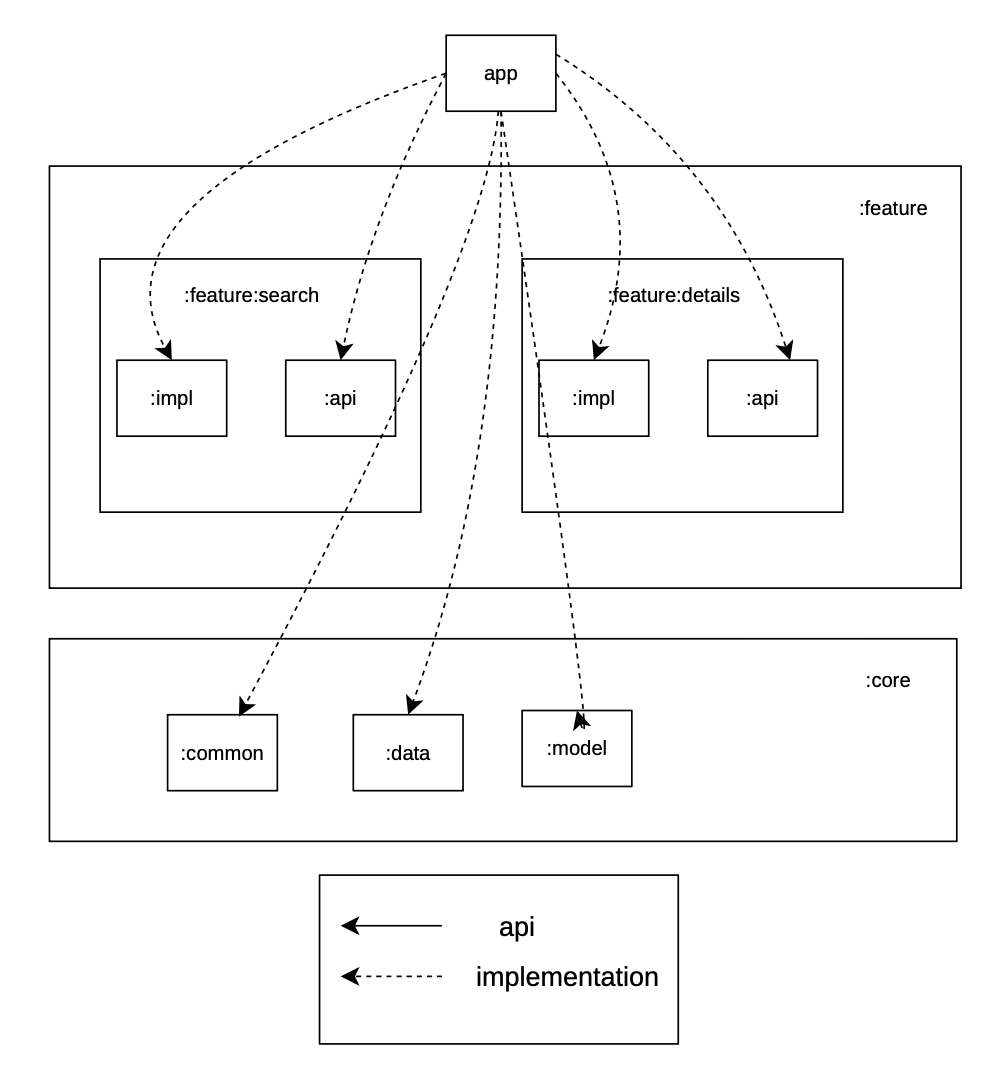
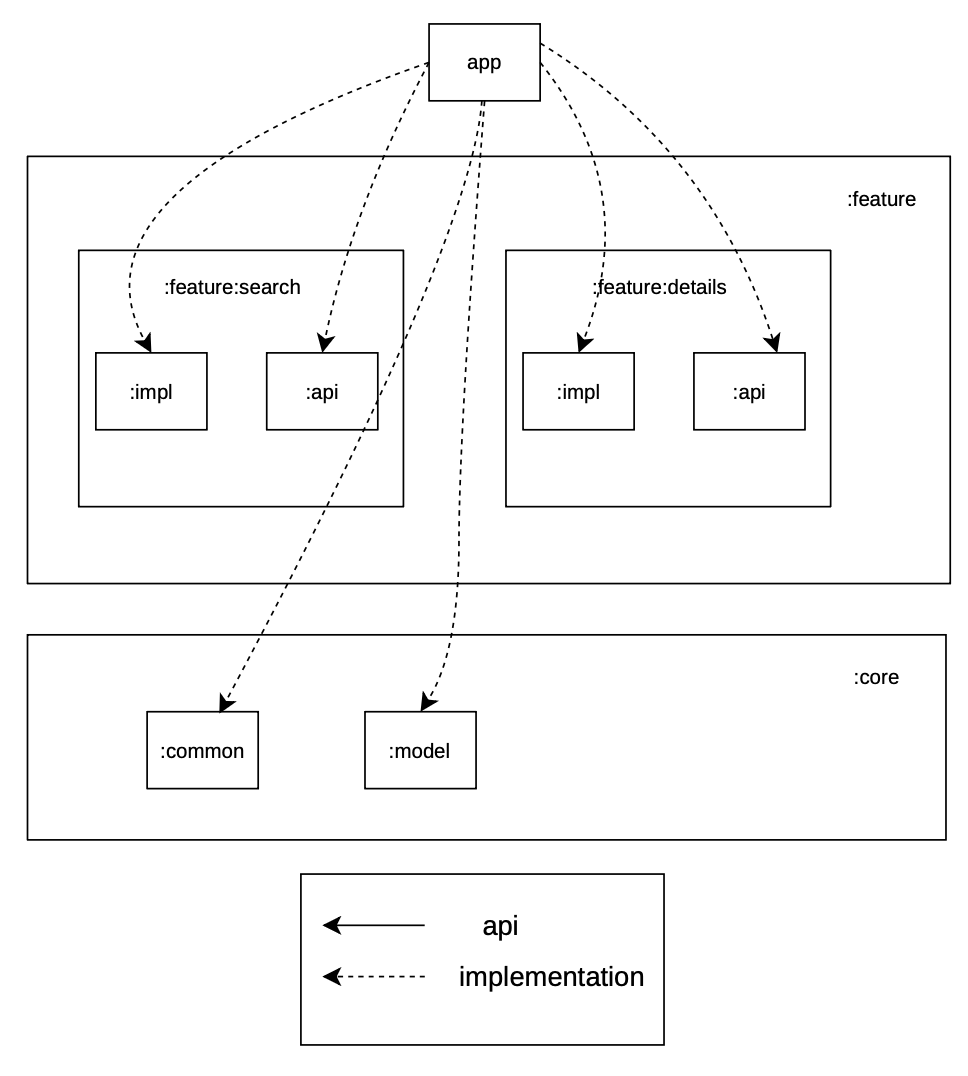
docs: fix image links in src - main module .md - app .md; refactor: NetworkState: move interface to :common, keep implementation internal in :data/util.

diff --git a/core/data/src/main/java/com/android/testapp/core/data/util/ConnectivityManagerNetworkState.kt b/core/data/src/main/java/com/android/testapp/core/data/util/ConnectivityManagerNetworkState.kt
@@ -9,6 +9,7 @@ import android.net.NetworkRequest.Builder
 import androidx.core.content.getSystemService
 import com.android.testapp.core.common.network.AppDispatchers.IO
 import com.android.testapp.core.common.network.Dispatcher
+import com.android.testapp.core.common.network.NetworkState
 import dagger.hilt.android.qualifiers.ApplicationContext
 import kotlinx.coroutines.CoroutineDispatcher
 import kotlinx.coroutines.channels.awaitClose
@@ -18,7 +19,7 @@ import kotlinx.coroutines.flow.conflate
 import kotlinx.coroutines.flow.flowOn
 import javax.inject.Inject
 
-class ConnectivityManagerNetworkState @Inject constructor(
+internal class ConnectivityManagerNetworkState @Inject constructor(
     @ApplicationContext private val context: Context,
     @Dispatcher(IO) private val ioDispatcher: CoroutineDispatcher,
 ) : NetworkState {

diff --git a/app/src/main/java/com/android/testapp/GifAppState.kt b/app/src/main/java/com/android/testapp/GifAppState.kt
@@ -3,7 +3,7 @@ package com.android.testapp
 import androidx.compose.runtime.Composable
 import androidx.compose.runtime.remember
 import androidx.compose.runtime.rememberCoroutineScope
-import com.android.testapp.core.data.util.NetworkState
+import com.android.testapp.core.common.network.NetworkState
 import com.android.testapp.core.navigation.NavigationState
 import com.android.testapp.core.navigation.rememberNavigationState
 import com.android.testapp.feature.search.api.navigation.SearchNavKey

diff --git a/core/data/src/main/java/com/android/testapp/core/data/di/DataModule.kt b/core/data/src/main/java/com/android/testapp/core/data/di/DataModule.kt
@@ -1,9 +1,9 @@
 package com.android.testapp.core.data.di
 
+import com.android.testapp.core.common.network.NetworkState
 import com.android.testapp.core.data.repository.GifRepository
 import com.android.testapp.core.data.repository.GifRepositoryImpl
 import com.android.testapp.core.data.util.ConnectivityManagerNetworkState
-import com.android.testapp.core.data.util.NetworkState
 import dagger.Binds
 import dagger.Module
 import dagger.hilt.InstallIn

diff --git a/app/src/main/java/com/android/testapp/MainActivity.kt b/app/src/main/java/com/android/testapp/MainActivity.kt
@@ -4,7 +4,7 @@ import android.os.Bundle
 import androidx.activity.ComponentActivity
 import androidx.activity.compose.setContent
 import androidx.activity.enableEdgeToEdge
-import com.android.testapp.core.data.util.NetworkState
+import com.android.testapp.core.common.network.NetworkState
 import com.android.testapp.ui.theme.TestappTheme
 import dagger.hilt.android.AndroidEntryPoint
 import javax.inject.Inject

diff --git a/core/common/src/main/java/com/android/testapp/core/common/network/NetworkState.kt b/core/common/src/main/java/com/android/testapp/core/common/network/NetworkState.kt
@@ -1,4 +1,4 @@
-package com.android.testapp.core.data.util
+package com.android.testapp.core.common.network
 
 import kotlinx.coroutines.flow.Flow
 

diff --git a/README.md b/README.md
@@ -65,7 +65,7 @@ GifApp, MainActivity, AppAplication. App-level controlled navigation via GifAppS
   </tr>
   <tr>
    <td>core:common</td>
-   <td>Common classes shared between modules - AppError, DataResult, DI (provide Dispatcher (IO / Default) through Hilt).</td>
+   <td>Common classes shared between modules - AppError, DataResult, DI (provide Dispatcher (IO / Default) through Hilt, NetworkState - interface).</td>
   </tr>
 <tr>
    <td>core:navigation</td>
